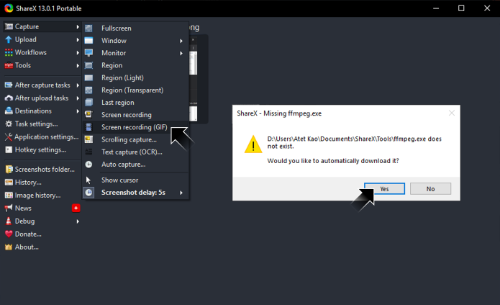
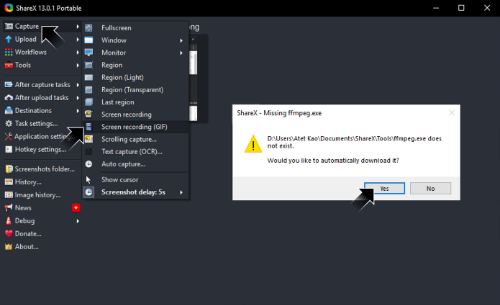
Added Your First Video section and minor edits in Tutorial on Screen Capture.

diff --git a/README.md b/README.md
@@ -100,7 +100,7 @@
    * Filenames will be in the format of `<RANDOM FILENAME>.<FILE FORMAT>`
 * **Don't change anything right now, just remember where files will be saved**
 
-[![.img/step02b.png](.img/step02b.png)](#nolink)
+[![.img/step02c.png](.img/step02c.png)](#nolink)
 
 [Back to Top](#table-of-contents)
 
@@ -142,7 +142,7 @@
 
 [![.img/step04c.png](.img/step04c.png)](#nolink)
 
-* After you stop the recording, ShareX will take a few moments to compile your animation and save it out as `*.gif` format
+* After you stop the recording, ShareX will take a few moments to process your animation and save it out as `*.gif` format
 * Watch my screen recording of deleting the first screenshot we took (right-click on thumbnail):
 
 [![.img/step04d.gif](.img/step04d.gif)](#nolink)
@@ -153,7 +153,17 @@
 
 ## 5. Your First Video
 
-* Coming soon! Check back later...
+**This is exactly the same process as making an animated GIF**
+
+* **You must have ffmpeg.exe downloaded from the previous step**
+* On the left-hand window pane, click on "Capture"
+* Click on "Screen recording" NOT "Screen recording (GIF)"
+
+[![.img/step05a.png](.img/step05a.png)](#nolink)
+
+* You will be prompted to pick a window area to start recording (you can abort with right-click)
+* Once you left-click on an area, ShareX will start recording until you press the "Stop" button (or keyboard hotkeys) on the lower-left side
+* After you stop the recording, ShareX will take a few moments to process your video and save it out as `*.mp4` format
 
 [Back to Top](#table-of-contents)
 
@@ -181,6 +191,7 @@ GIMP ([wikipedia](https://en.wikipedia.org/wiki/GIMP)) | Graphical User Interfac
 Issue | Solution
 --- | ---
 [![.img/ta.png](.img/ta.png)](#nolink) | Run `ShareX.exe`<br>as administrator
+Cursor in screenshots | Disable "Show cursor"
 
 [Back to Top](#table-of-contents)
 
